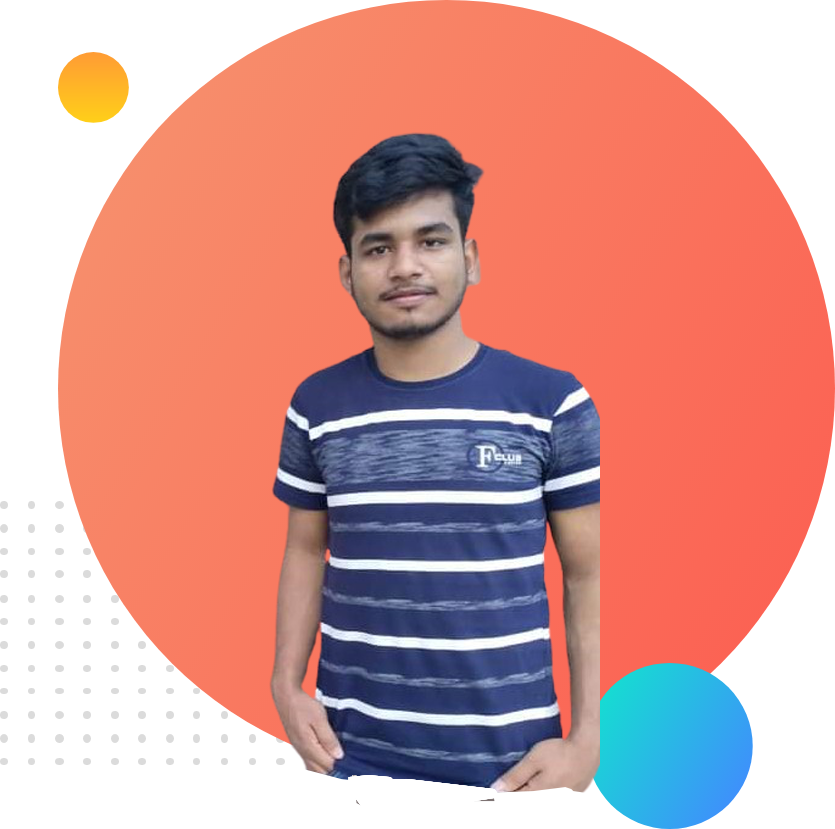
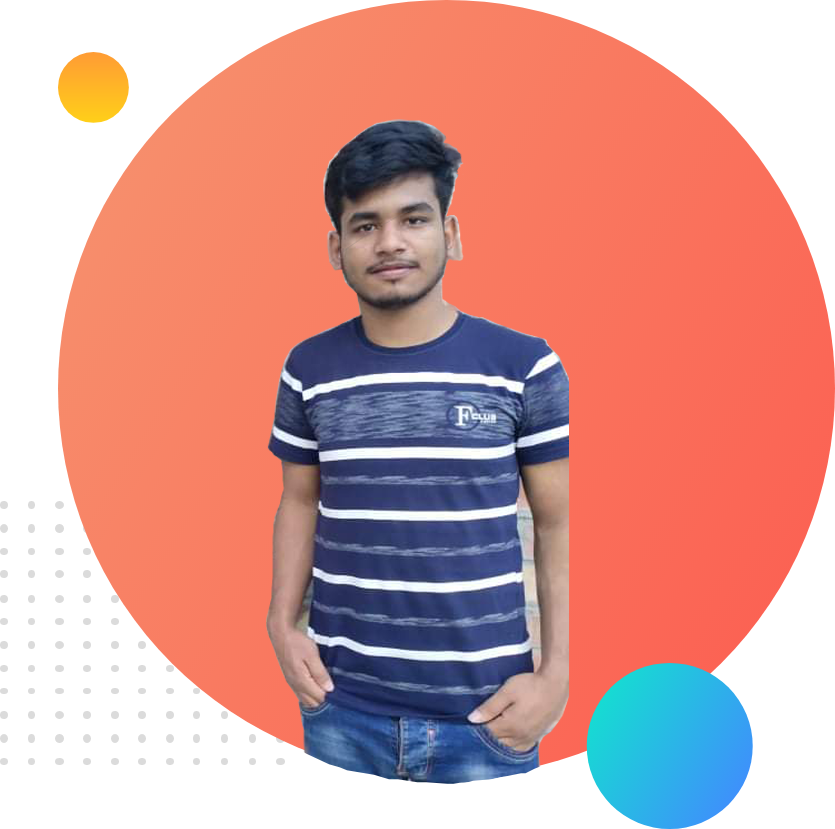
2 image changes

Changed region(s): [[0.3114, 0.1206, 0.7162, 0.965]]

diff --git a/index.html b/index.html
@@ -23,7 +23,7 @@
 
     <section class="dream">
         <div class="half">
-            <img src="img/jhankar2.png" alt="">
+            <img src="img/my-bg2.png" alt="">
         </div>
         <div class="half">
             <h1>My Dream</h1>
